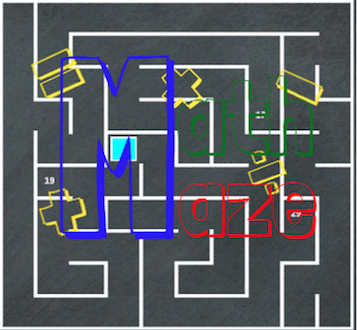
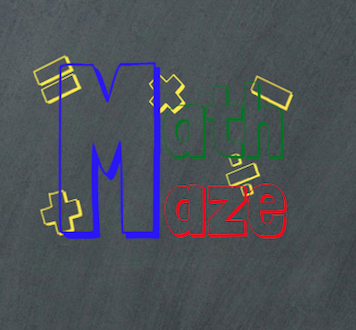
Last push for Final presentation

diff --git a/index.html b/index.html
@@ -70,7 +70,7 @@
         </div>
         <div id="navbar" class="navbar-collapse collapse">
           <ul class="nav navbar-nav">
-            <li class="active"><a href="index.html">Home</a></li>
+            <li class="dropdown"><a href="index.html">Home</a></li>
             
             <li class="dropdown">
             <a href="#" class="dropdown-toggle" data-toggle="dropdown" role="button" aria-haspopup="true" aria-expanded="false">About<span class="caret"></span></a>
@@ -115,17 +115,21 @@
         <div class="col-md-6">            
          <a href = "Resources/HTML/gateGrabber.html"> <div class="GGLogo"></div> </a>
        <br>  
-       <b>Practice with logic gates and grab the gates with the correct inputs and outputs to get the highest score!  </b> 
-        <p><a class="btn btn-default" href="Resources/HTML/GateGrabberInfo.html" role="button">Learn More &raquo;</a></p>
+       <br>
+       <p><b>Gate Grabber</b></p>
+       <b>Practice with logic gates and grab the gates with the correct inputs and outputs to get the highest score!  </b> <br>
+       <br> <p><a class="btn btn-default" href="Resources/HTML/GateGrabberInfo.html" role="button">Learn More &raquo;</a></p>
         <br>
         <b> Review logic gates: </b>
-        <p><a class="btn btn-default" href="Resources/HTML/LogicGateLesson.html" role="button">Logic Gate Lesson &raquo;</a></p>   
+        <br><br><p><a class="btn btn-default" href="Resources/HTML/LogicGateLesson.html" role="button">Logic Gate Lesson &raquo;</a></p>   
         </div>
         <div class="col-md-6">
 		<a href = "Resources/HTML/mathMaze.html"><div class="MMLogo"></div></a>
   <br>
-  <b>Quickly navigate through the maze to solve equations!</b>  
-        <p><a class="btn btn-default" href="Resources/HTML/MathMazeInfo.html" role="button">Learn More &raquo;</a></p>
+  <br>
+  <p><b>Math Maze</b></p>
+  <b>Quickly navigate through the maze to solve equations!</b>  <br>
+     <br>   <p><a class="btn btn-default" href="Resources/HTML/MathMazeInfo.html" role="button">Learn More &raquo;</a></p>
      </div>
      <br>
      </div>

diff --git a/Resources/js/Gate Grabber/GateGrabber.js b/Resources/js/Gate Grabber/GateGrabber.js
@@ -295,6 +295,7 @@ function keyDownHandler(e) {
         changePlayerValue();
         spacePressed = true;
     }
+ /*
     if(e.keyCode == 77){
         if(mute == false){
             mute = true;
@@ -306,6 +307,7 @@ function keyDownHandler(e) {
             music.play();
         }
     }
+ */
     if(e.keyCode == 80 && playing == true){
         pause();
     }
@@ -1164,7 +1166,7 @@ function draw(time) {
     }
 
 //Animation runs when a player scores. Working on improving this animation later on
-    if(scored == true){
+    if(scored == true && paused == false){
         ctx.font = "14px Retroville";
         if(collected2x == true) ctx.fillText("+"+ (100 * multiplier() * 2),animationx - 25, animationy);
         else ctx.fillText("+"+ (100 * multiplier()),animationx - 25, animationy);

diff --git a/Resources/js/Navigation Menu/navbar.js b/Resources/js/Navigation Menu/navbar.js
@@ -46,7 +46,7 @@ document.write('</div>');
 
 document.write('<div id="navbar" class="navbar-collapse collapse">');
 document.write('<ul class="nav navbar-nav">');
-document.write('<li class="active"><a href="../../index.html">Home</a></li>');
+document.write('<li class="dropdown"><a href="../../index.html">Home</a></li>');
             
 document.write('<li class="dropdown">');
 document.write('<a href="#" class="dropdown-toggle" data-toggle="dropdown" role="button" aria-haspopup="true" aria-expanded="false">About<span class="caret"></span></a>');

diff --git a/Resources/css/style.css b/Resources/css/style.css
@@ -1469,7 +1469,7 @@ commentHeader{
 .GGLogo {
 	height:330px;
 	width:356px;
-	background: url('../images/GG_gif.gif');
+	background: url('../images/GGstatic.png');
 	position: relative;
 	opacity: 0.9;
 }
@@ -1491,7 +1491,7 @@ commentHeader{
 .MMLogo:hover {
 	height:330px;
 	width:356px;
-	background:url('../images/MM_logo.gif');
+	background:url('../images/MM.gif');
 	opacity: 1.0;
 }
 
